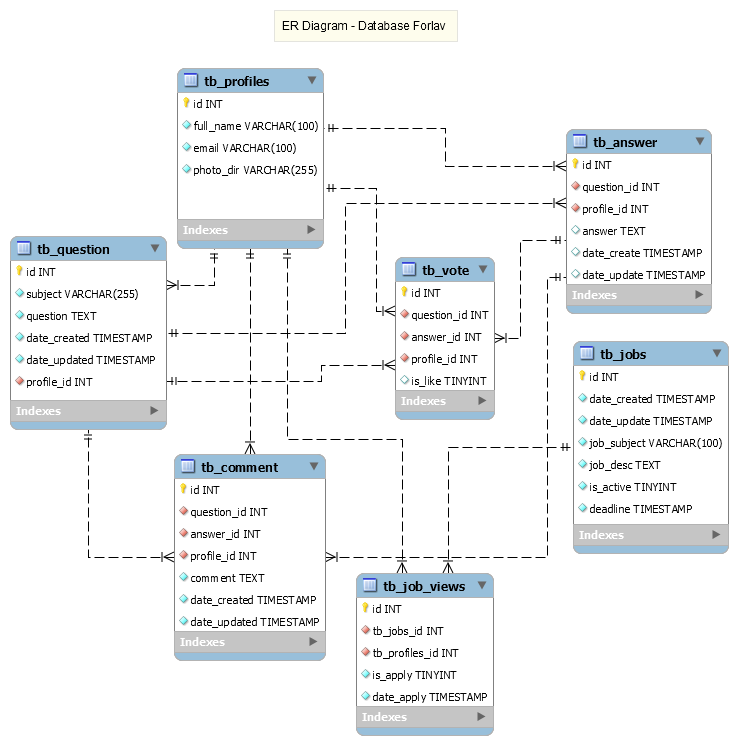
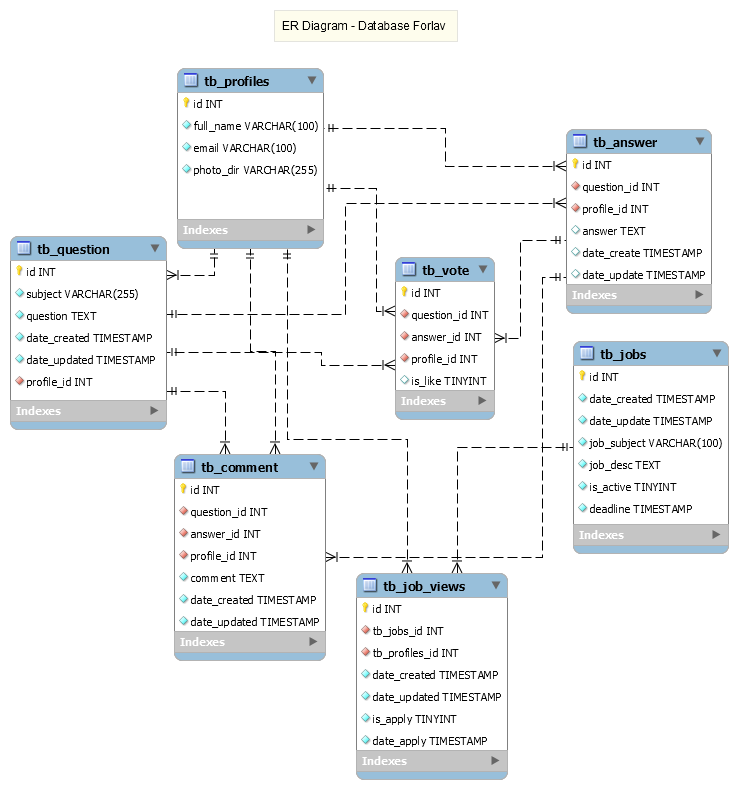
Add table jobs & job views

diff --git a/README.md b/README.md
@@ -1,1 +1,19 @@
 # W3D1-ER-DIAGRAM
+ERD Challenge
+Kalian ditantang untuk membuat desain ERD dari sebuah aplikasi web forum. Berikut ini penjelasan tentang aplikasi tersebut
+
+Aplikasi Web Forum
+Description: 
+Sebuah web portal bagi para developer yang menggunakan Laravel untuk menyimpan profil pribadi, forum tanya jawab dan forum lowongan project/ kerja. Di dalam aplikasi tersebut, user dapat membuat dan memperbaharui profil pribadi. Selain itu user dapat bertanya jawab mengenai hal-hal seputar Laravel.
+
+Ketentuan Forum Tanya Jawab:
+
+Setiap pertanyaan memiliki banyak jawaban dan terdapat jawaban yang dapat dipilih oleh pembuat pertanyaan sebagai jawaban paling tepat.
+Setiap pertanyaan dan jawaban dapat memiliki komentar.
+Setiap user dapat memberikan like dan dislike terhadap suatu pertanyaan atau jawaban.
+Setiap pertanyaan dan jawaban memiliki jumlah vote yang dihitung dari jumlah like dikurangi dengan jumlah dislike.
+Requirement
+Data di profile mencakup : nama lengkap, alamat email, photo
+Data di table pertanyaan: judul, isi, tanggal_dibuat, tanggal_diperbaharui.
+Data di table jawaban: isi, tanggal_dibuat, tanggal_diperbaharui.
+Data di table komentar: isi, tanggal_dibuat, pemberi_komentar_id
